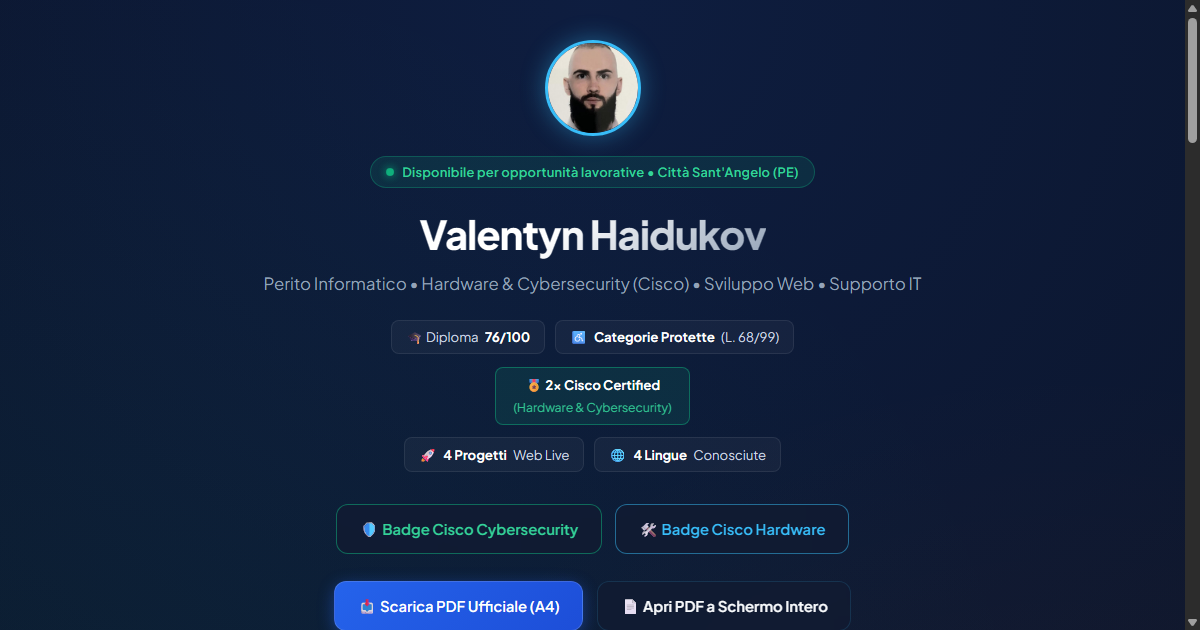
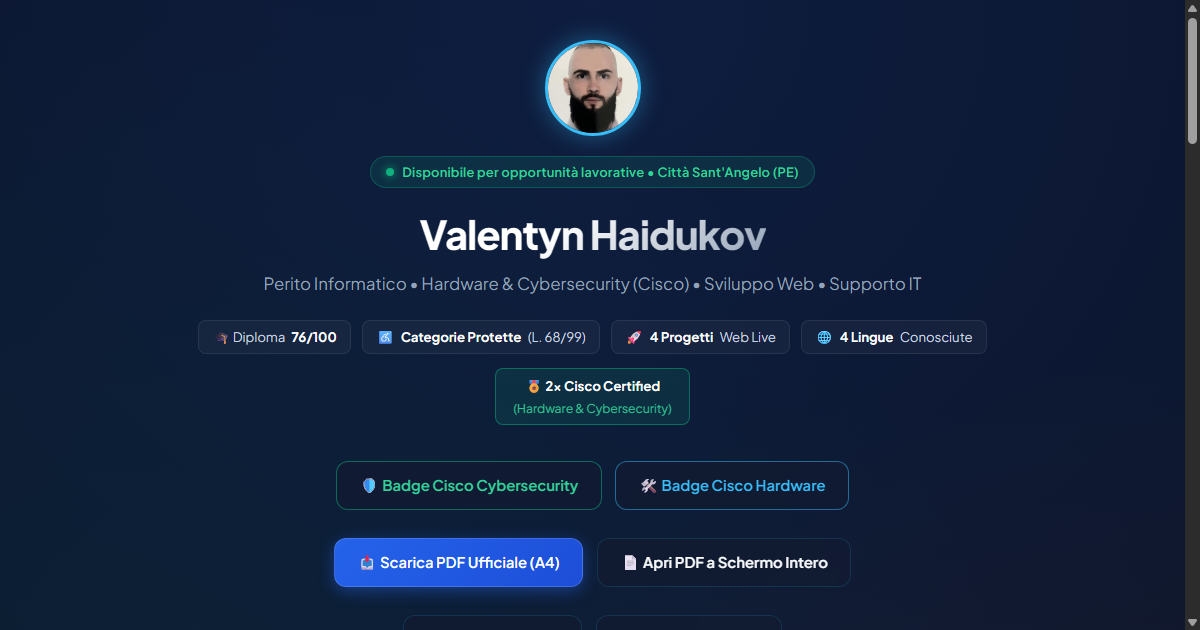
style: spostata pillola 2x Cisco Certified sotto a 4 Lingue Conosciute

diff --git a/index.html b/index.html
@@ -789,23 +789,23 @@
 
     
 
-                    <!-- Metrics Bar -->
+                        <!-- Metrics Bar -->
     <div class="metrics-bar">
       <div class="metric-badge">🎓 Diploma <strong>76/100</strong></div>
       <div class="metric-badge">♿ <strong>Categorie Protette</strong> (L. 68/99)</div>
       
-      <div style="flex-basis: 100%; display: flex; justify-content: center; margin: 0.15rem 0;">
+      <div class="metric-badge">🚀 <strong>4 Progetti</strong> Web Live</div>
+      <div class="metric-badge">🌐 <strong>4 Lingue</strong> Conosciute</div>
+
+      <div style="flex-basis: 100%; display: flex; justify-content: center; margin: 0.2rem 0;">
         <div class="metric-badge" style="border-color: rgba(16, 185, 129, 0.45); background: rgba(16, 185, 129, 0.12); color: #34d399; flex-direction: column; gap: 0.2rem; padding: 0.45rem 1.1rem;">
           <div>🎖 <strong>2x Cisco Certified</strong></div>
           <div style="font-size: 0.76rem; opacity: 0.92;">(Hardware & Cybersecurity)</div>
         </div>
       </div>
-
-      <div class="metric-badge">🚀 <strong>4 Progetti</strong> Web Live</div>
-      <div class="metric-badge">🌐 <strong>4 Lingue</strong> Conosciute</div>
     </div>
 
-            <div class="actions-bar">
+    <div class="actions-bar">
 
       <a href="https://www.credly.com/badges/1cf3052b-c5a6-443a-a1e8-267ac0b2ac05/public_url" target="_blank" class="btn btn-outline" style="border-color: rgba(16, 185, 129, 0.5); color: #34d399;" title="Verifica il badge digitale ufficiale di Cybersecurity su Credly">
         🛡 Badge Cisco Cybersecurity
